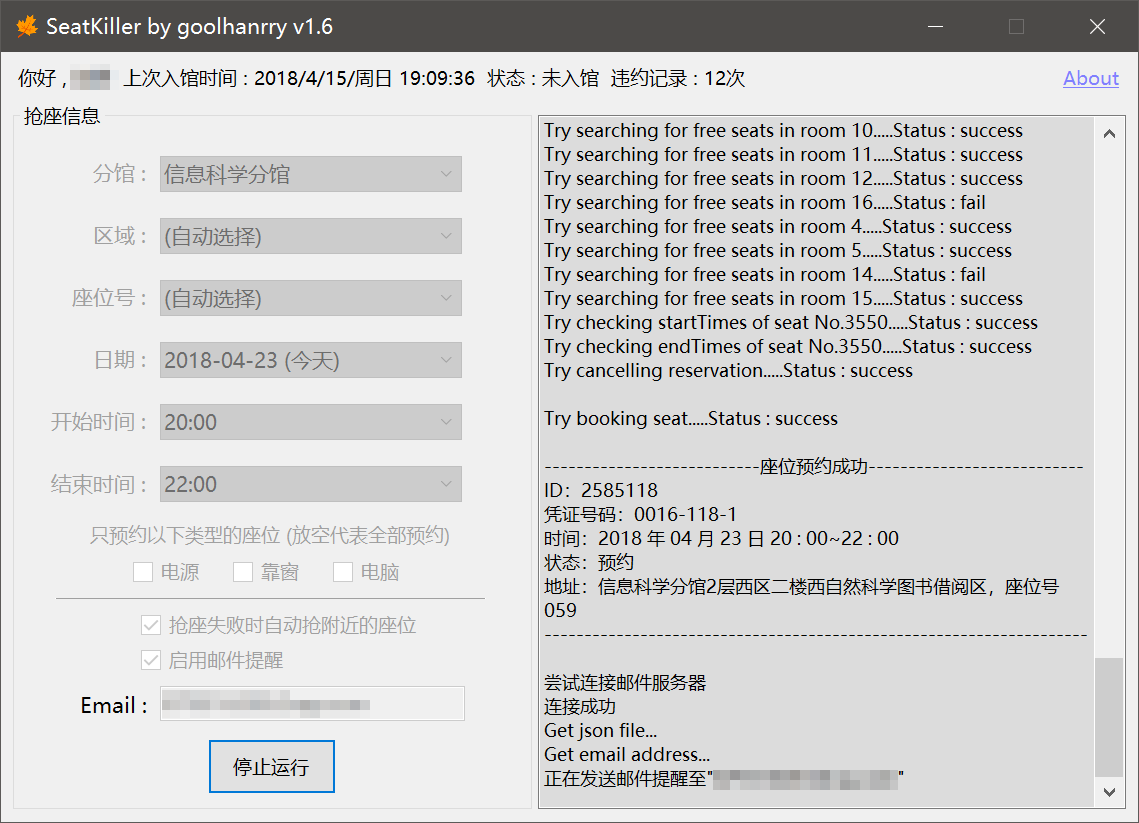
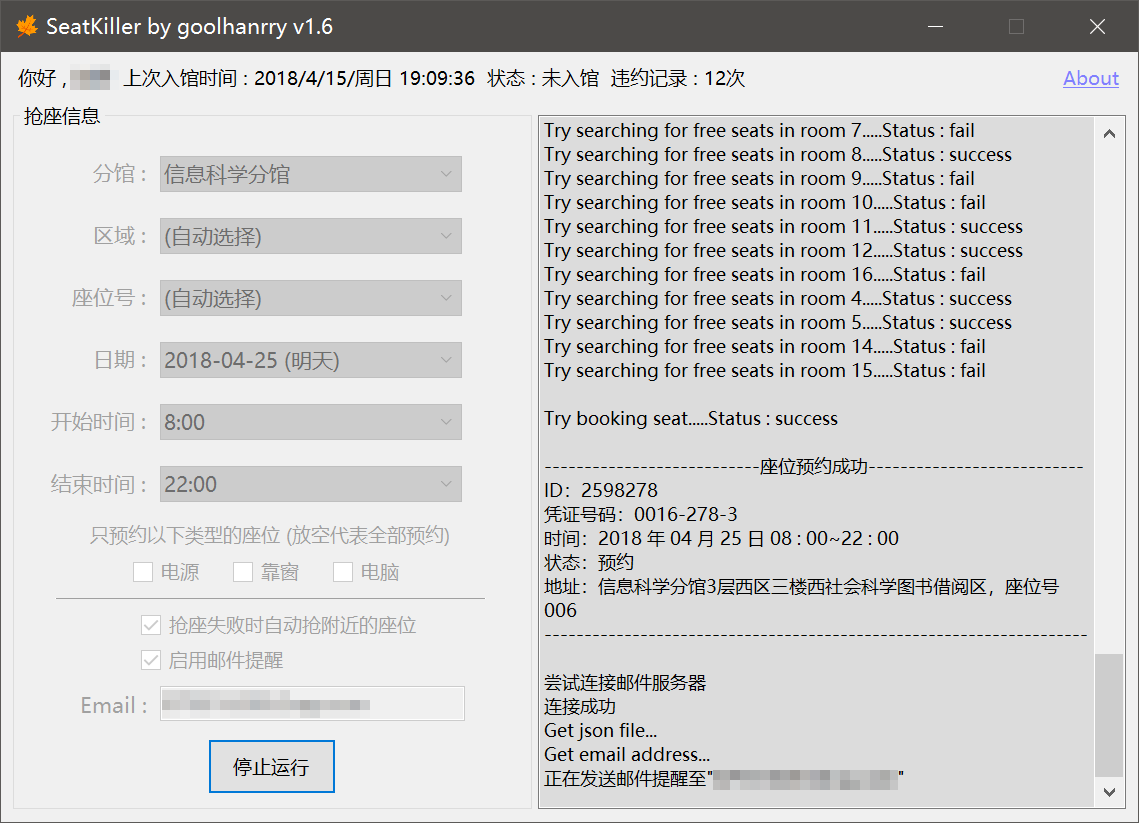
修复“Email: ”标签的显示bug

diff --git a/SeatKiller_UI/Config.cs b/SeatKiller_UI/Config.cs
@@ -253,6 +253,7 @@ namespace SeatKiller_UI
                 label4.Enabled = false;
                 label5.Enabled = false;
                 label6.Enabled = false;
+                label7.Enabled = false;
                 label8.Enabled = false;
                 label9.Enabled = false;
                 comboBox1.Enabled = false;
@@ -294,6 +295,7 @@ namespace SeatKiller_UI
                 checkBox5.Enabled = true;
                 if (checkBox2.Checked)
                 {
+                    label7.Enabled = true;
                     textBox1.Enabled = true;
                 }
                 button1.Text = "开始抢座";

diff --git a/SeatKiller_UI/main.cs b/SeatKiller_UI/main.cs
@@ -296,6 +296,7 @@ namespace SeatKiller_UI
             Config.config.checkBox5.Enabled = true;
             if (Config.config.checkBox2.Checked)
             {
+                Config.config.label7.Enabled = true;
                 Config.config.textBox1.Enabled = true;
             }
             Config.config.button1.Text = "开始抢座";
